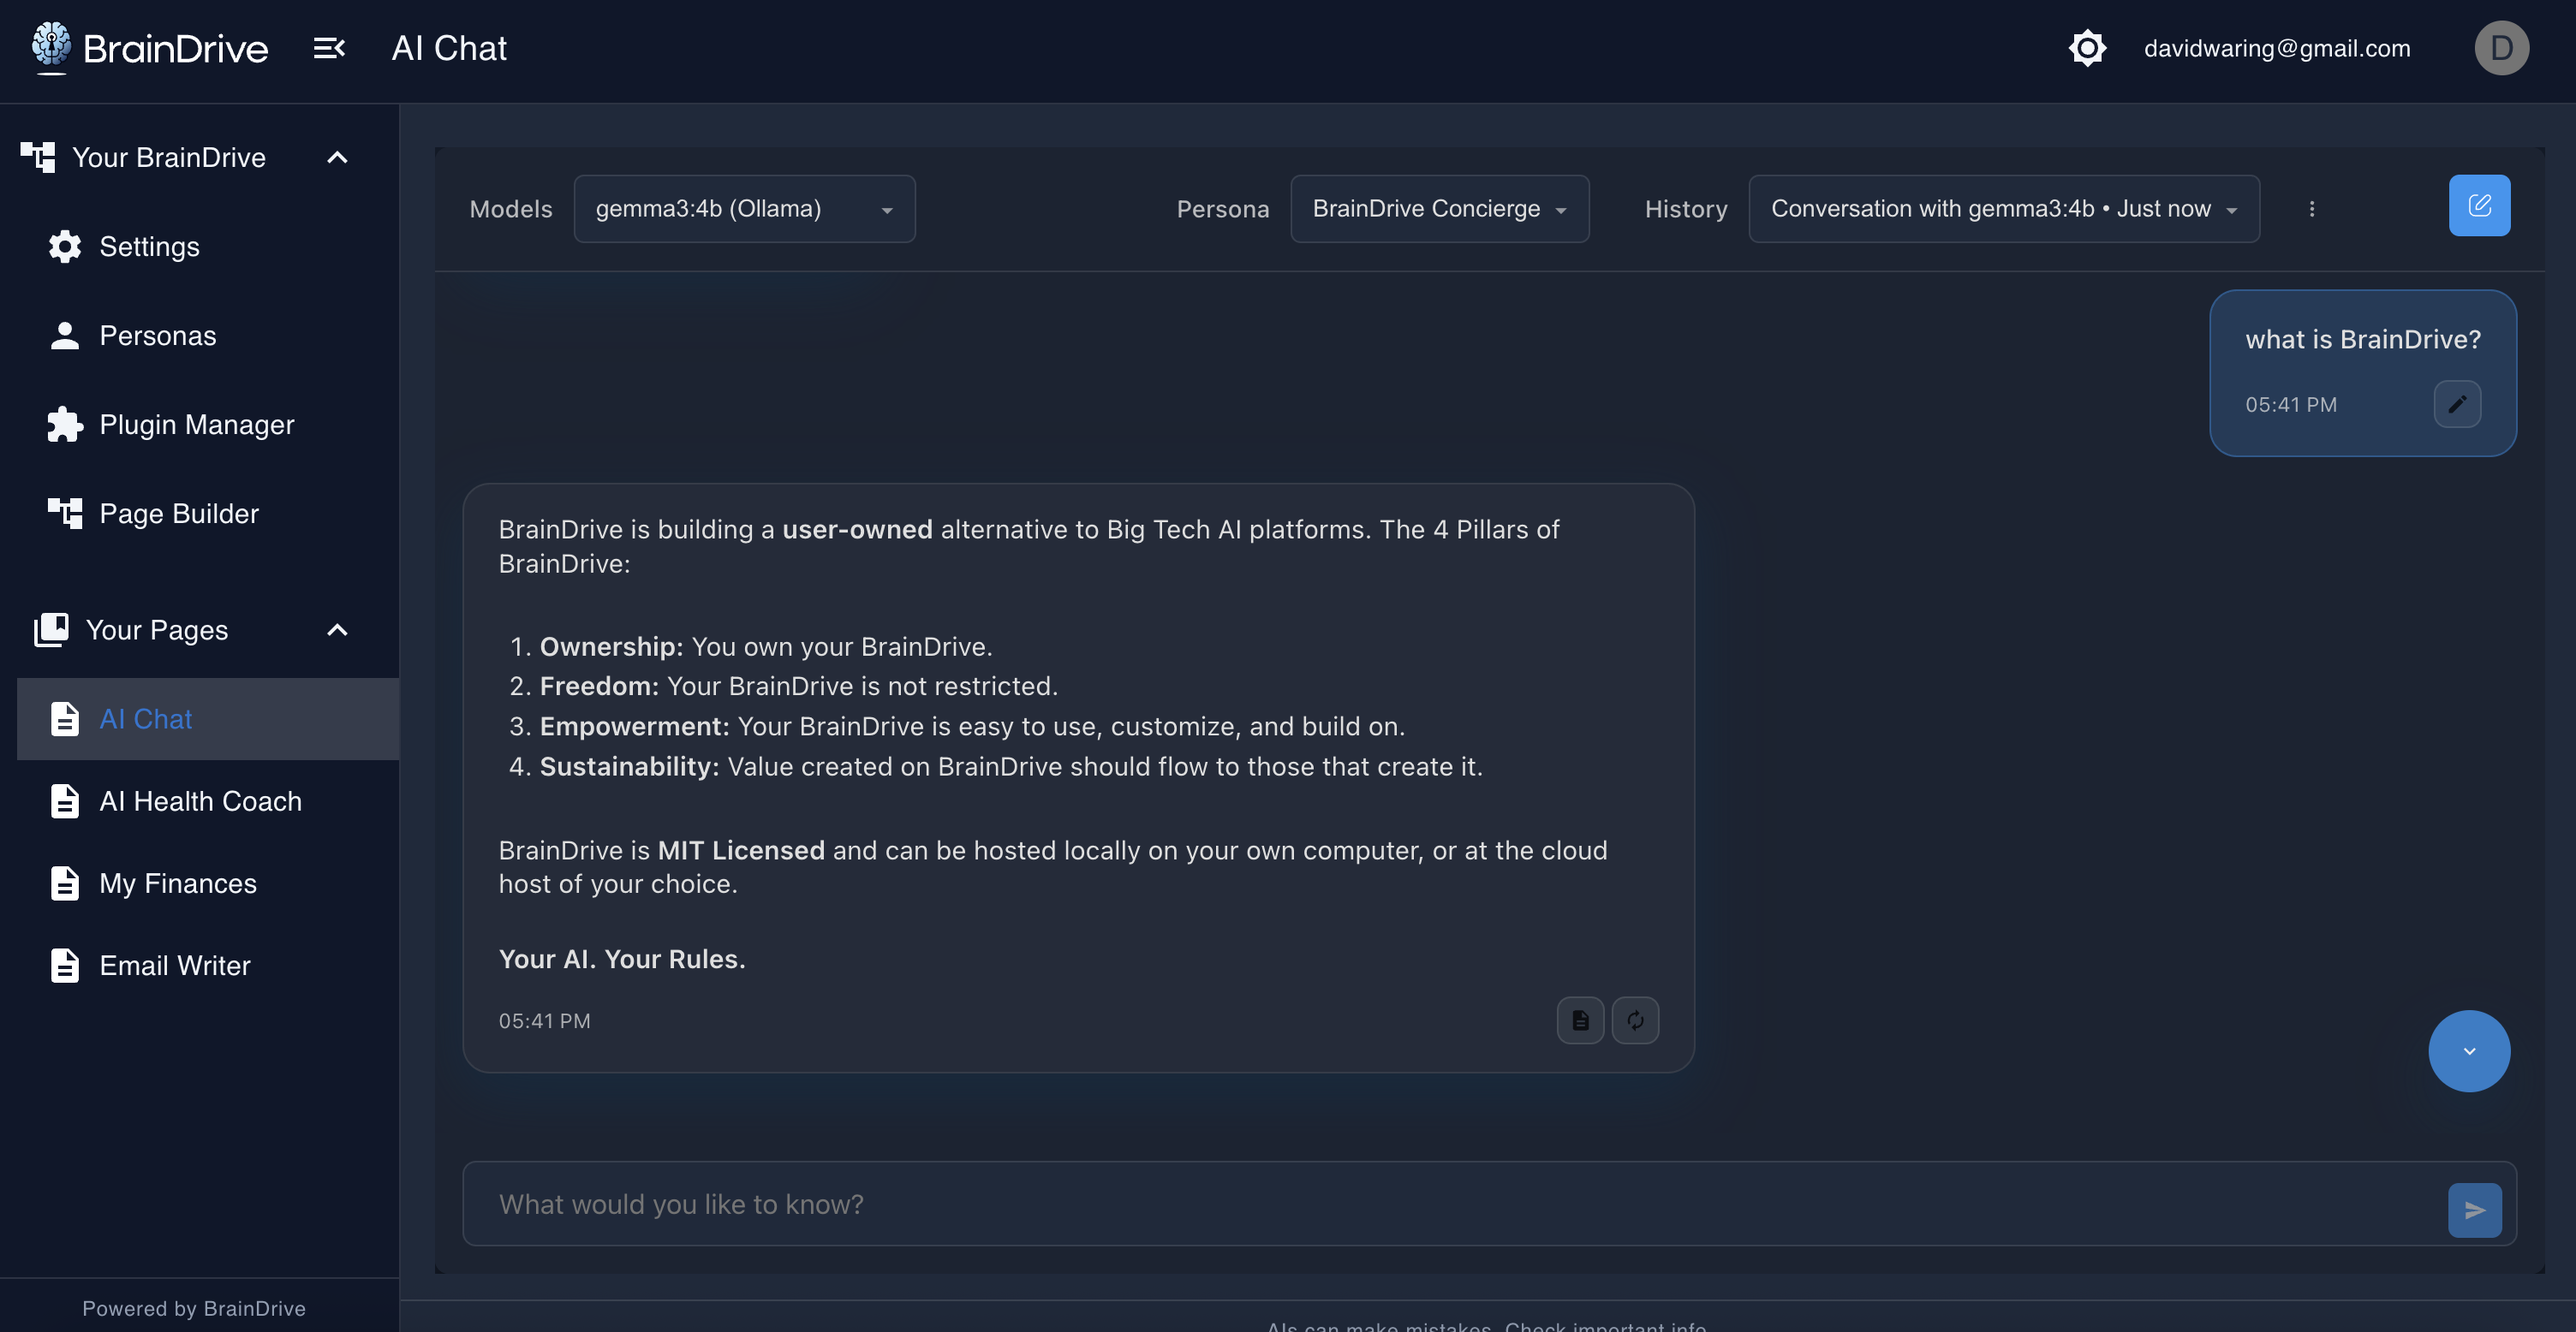
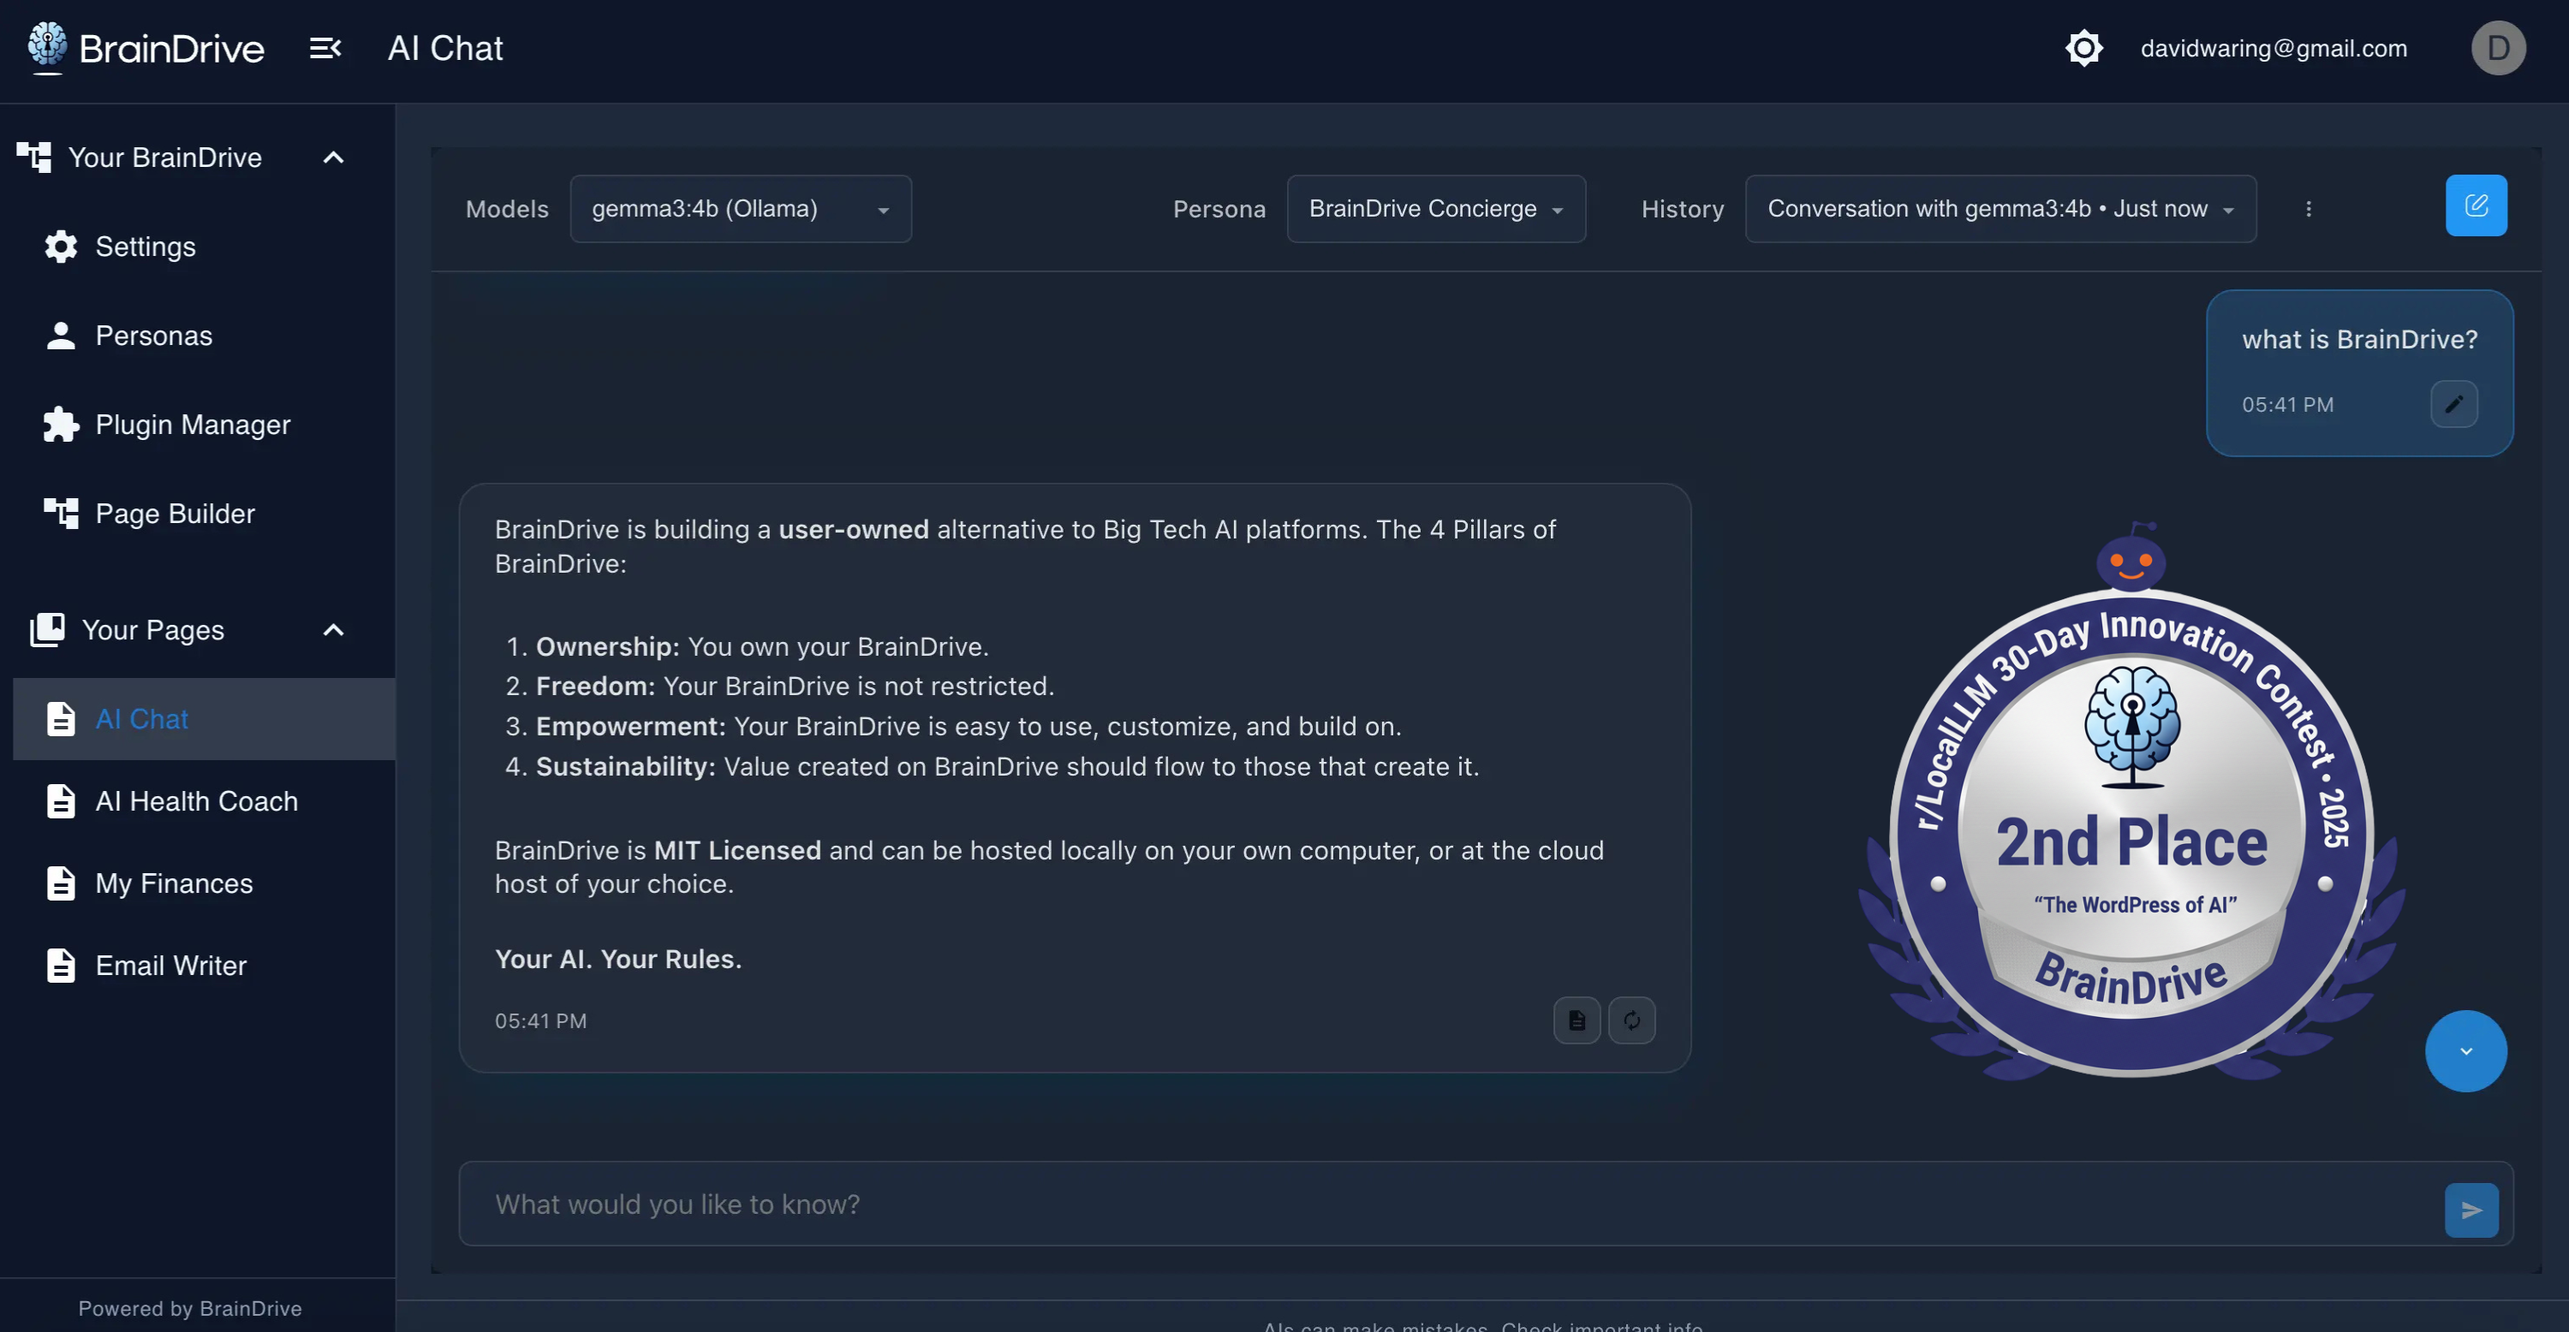
Update hero image with LocalLLM 2nd Place badge

diff --git a/src/app/page.tsx b/src/app/page.tsx
@@ -46,8 +46,8 @@ export default function Home() {
               <Image
                 src="/hero-image.png"
                 alt="BrainDrive AI dashboard screenshot"
-                width={1536}
-                height={768}
+                width={3000}
+                height={1556}
                 className="h-auto w-full rounded-xl"
                 priority
               />
